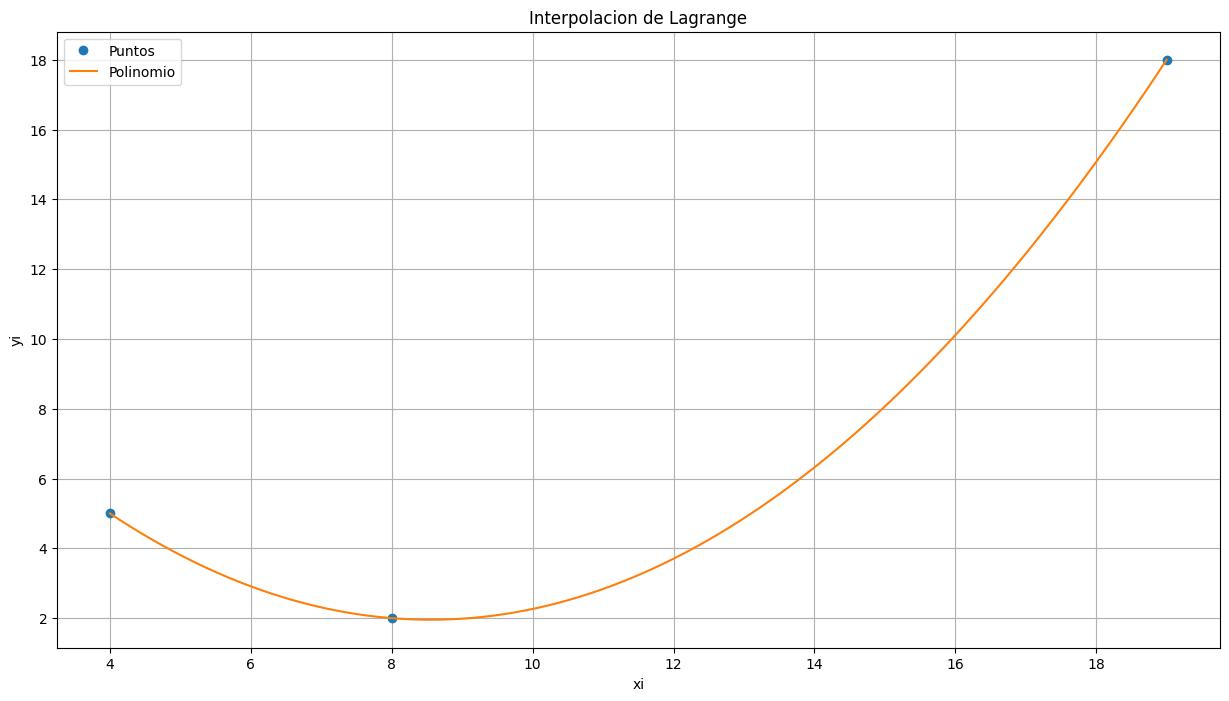
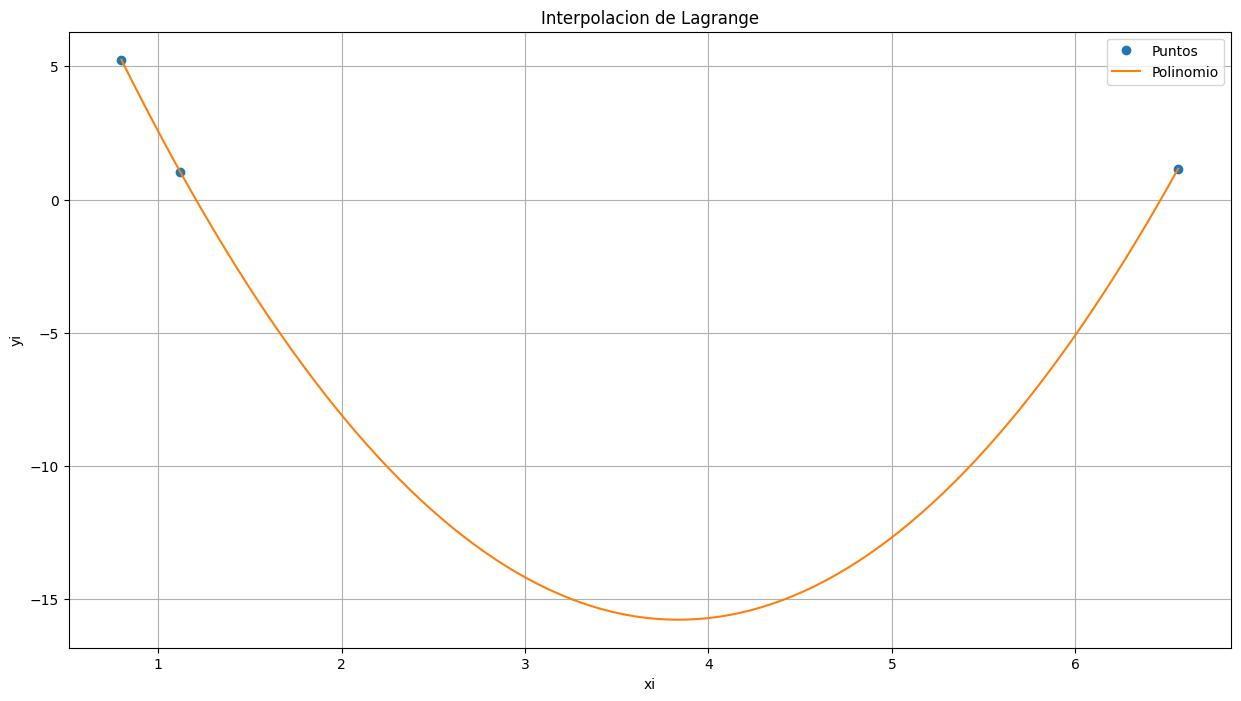
lagrange

diff --git a/templates/unit_3.html b/templates/unit_3.html
@@ -1,5 +1,43 @@
 {% extends "layout.html"%}
 
+{% block title %} Unidad 2{% endblock %}
+
+{% block mod %} INTERPOLACION DE LAGRANGE {% endblock %}
+
 {% block body %}
 
-{% endblock %}
+<div style="text-align: center;">
+    <form method="post">
+        <label for="numero">TAMAÑO DE LOS VECOTRES: </label>
+        <input type="number" name="size" min="1" max="9">
+        <p><input type="submit"></p>
+    </form>
+    </div>
+
+{% if size > 0 %}
+
+<div>
+    <table style="margin: 0 auto;">
+        {% for vector in vectores %}
+        <tr>
+            <th>VECTOR {{loop.index}}: </th>
+            {% for i in vector %}
+            <th>{{i}}</th>
+            {% endfor %}
+        </tr>
+        <br>
+        {% endfor %}
+    </table>
+    </div>
+
+<div>
+    <p>POLINOMIO SIMPLE: <b> {{res}} </b></p>
+</div>
+
+<div style="margin: 0 auto;">
+    <img src="static/flot.jpg" alt="resultado" height="300" width="500" style="border: 2px solid black;">
+</div>
+
+{% endif %}
+
+{% endblock%}

diff --git a/templates/unit_2.html b/templates/unit_2.html
@@ -1,42 +1,5 @@
 {% extends "layout.html"%}
 
-{% block title %} Unidad 2{% endblock %}
-
-{% block mod %} INTERPOLACION DE LAGRANGE {% endblock %}
-
 {% block body %}
 
-<div style="text-align: center;">
-    <form method="post">
-        <label for="numero">TAMAÑO DE LOS VECOTRES: </label>
-        <input type="number" name="size" min="1" max="20">
-        <p><input type="submit"></p>
-    </form>
-    </div>
-
-{% if size > 0 %}
-
-<div>
-    <table style="margin: 0 auto;">
-        {% for vector in vectores %}
-        <tr>
-            <th>VECTOR {{loop.index}}: </th>
-            {% for i in vector %}
-            <th>{{i}} </th>
-            {% endfor %}
-        </tr>
-        {% endfor %}
-    </table>
-    </div>
-
-<div>
-    <p>POLINOMIO SIMPLE: <b> {{res}} </b></p>
-</div>
-
-<div>
-    <img src="static/flot.jpg" alt="resultado">
-</div>
-
-{% endif %}
-
-{% endblock%}
+{% endblock %}

diff --git a/templates/index.html b/templates/index.html
@@ -10,8 +10,8 @@
     <div class="div-menu">
         <p>CALCULO NUMERICO</p>
             <a href="{{ url_for('unit_1') }}"> METODO DE LAS POTENCIAS</a><br>
-            <a href="{{ url_for('unit_2') }}"> INTERPOLACION</a><br>
-            <a href="{{ url_for('unit_2') }}"> INTERPOLACION</a><br>
+            <a href="{{ url_for('unit_1') }}"> INTERPOLACION</a><br>
+            <a href="{{ url_for('unit_3') }}"> INTERPOLACION</a><br>
     </div>
 </body>
 </html>

diff --git a/templates/error.html b/templates/error.html
@@ -1,0 +1,2 @@
+<p>Ha ocurrido un error ({{e}})</p>
+<p>Haga <a href="{{url}}">click</a> para volver</p>

diff --git a/main.py b/main.py
@@ -2,6 +2,7 @@ from flask import Flask, render_template, url_for, request
 from random import randint as rand
 import potenciacion as po
 import Interpolacion as intp
+import random
 
 app = Flask(__name__)
 
@@ -32,26 +33,29 @@ def unit_1():
     else:
         return render_template("unit_1.html", size = 0)
     
-@app.route('/unit_2', methods=['POST','GET'])
-def unit_2():
+@app.route('/unit_3', methods=['POST','GET'])
+def unit_3():
     if request.method == "POST":
         size = request.form["size"]
         if size == "":
-            return render_template("unit_2.html", size = 0)
+            return render_template("unit_3.html", size = 0)
         else:
             size = int(size)
 
         vector_1 = []
         vector_2 = []
         for i in range(size):
-            vector_1.append(rand(1,20))
-            vector_2.append(rand(1,20))
+            vector_1.append(round(random.uniform(0, 7), 2))
+            vector_2.append(round(random.uniform(0, 7), 2))
         
-        res = intp.main(vector_1, vector_2)
+        try: 
+            res = intp.main(vector_1, vector_2)
+        except Exception as err:
+            return render_template('error.html', url = 'unit_3', e = err)
     
-        return render_template("unit_2.html", size = int(size), vectores = [vector_1, vector_2], res = res)
+        return render_template("unit_3.html", size = int(size), vectores = [vector_1, vector_2], res = res)
     else:
-        return render_template("unit_2.html", size = 0)
+        return render_template("unit_3.html", size = 0)
 
 
 

diff --git a/potenciacion.py b/potenciacion.py
@@ -1,4 +1,5 @@
 import numpy as np
+import random
 
 def metodo_potencias(A, num_simulations: int):
     n, d = A.shape
